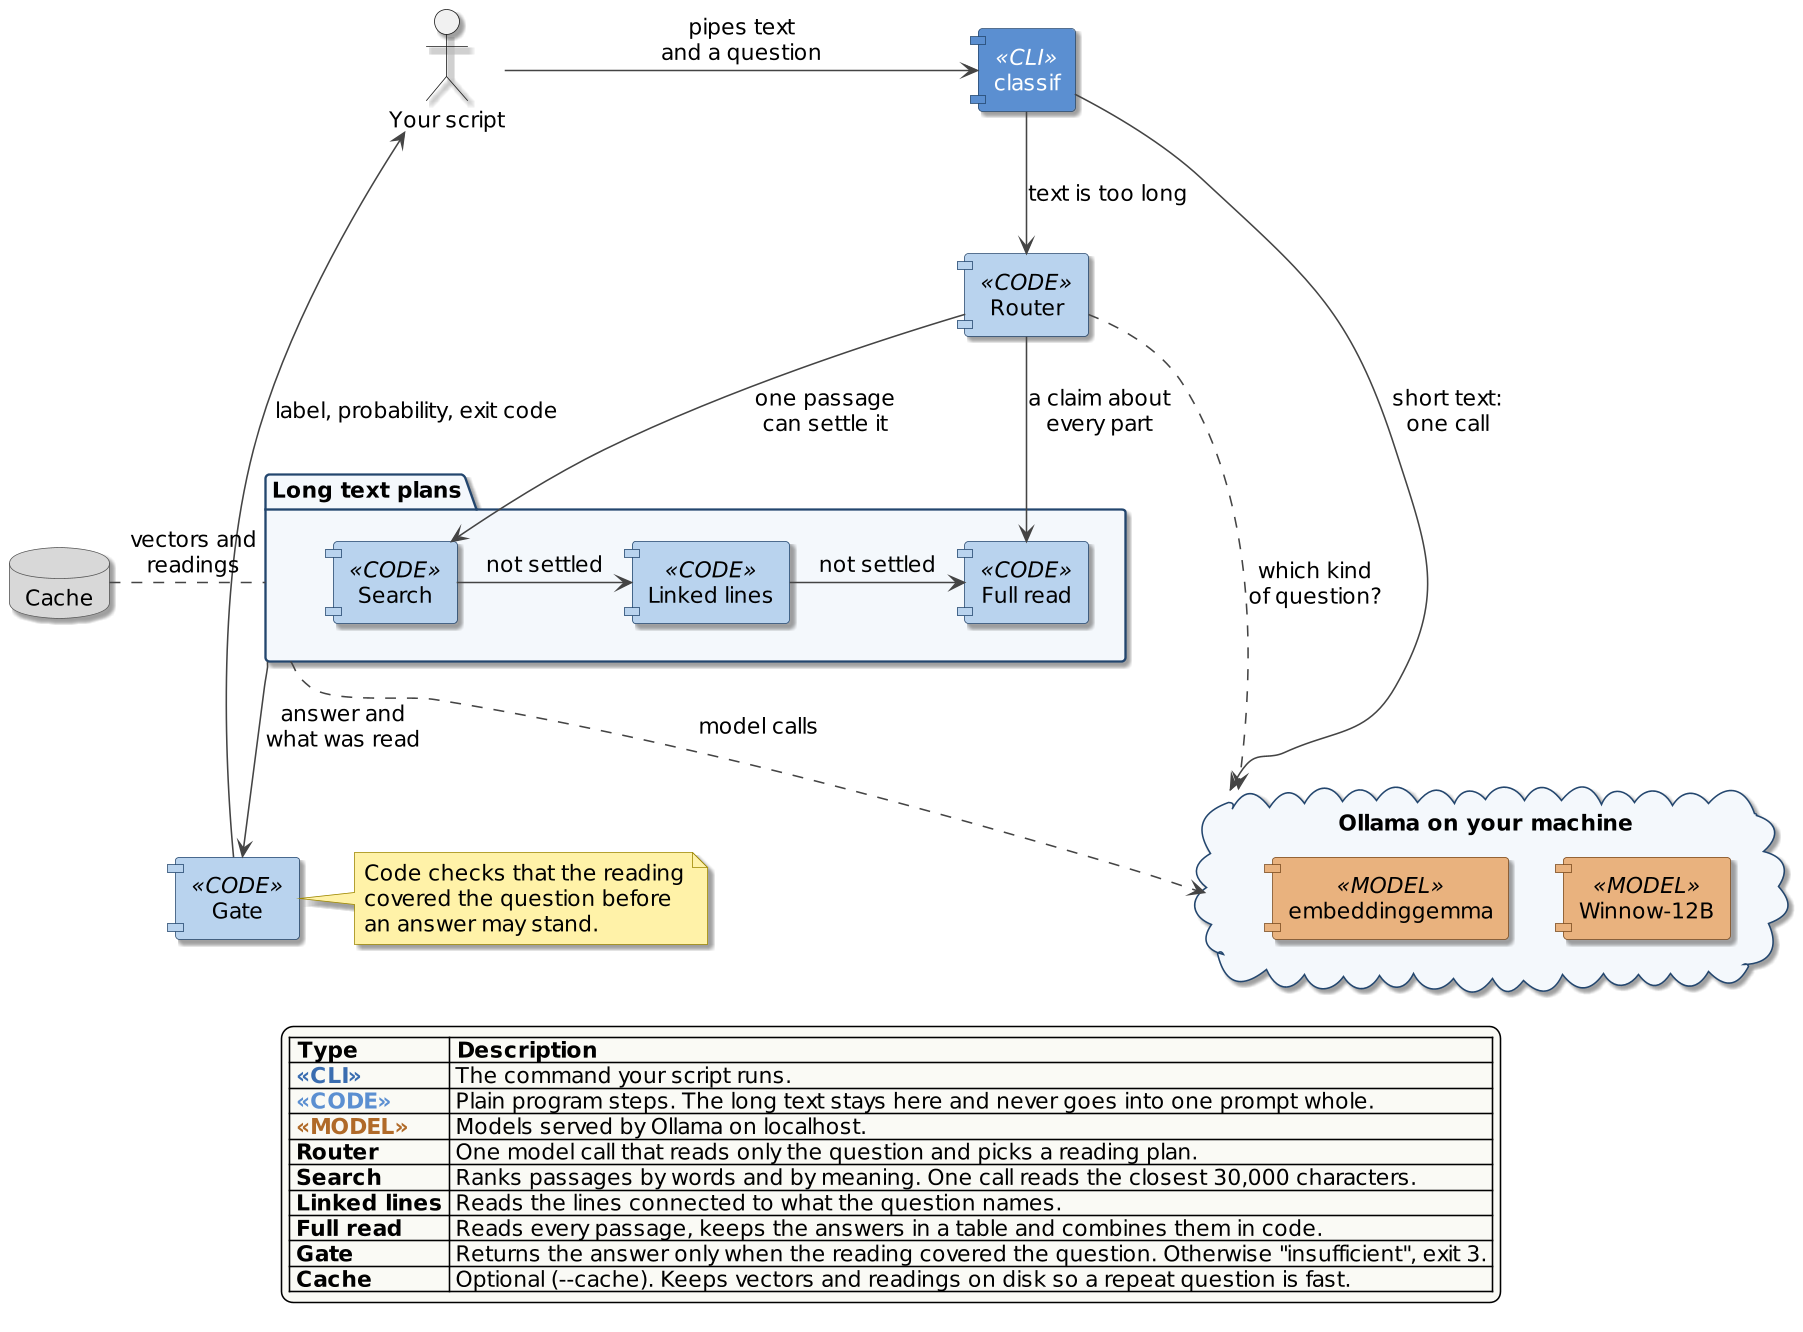
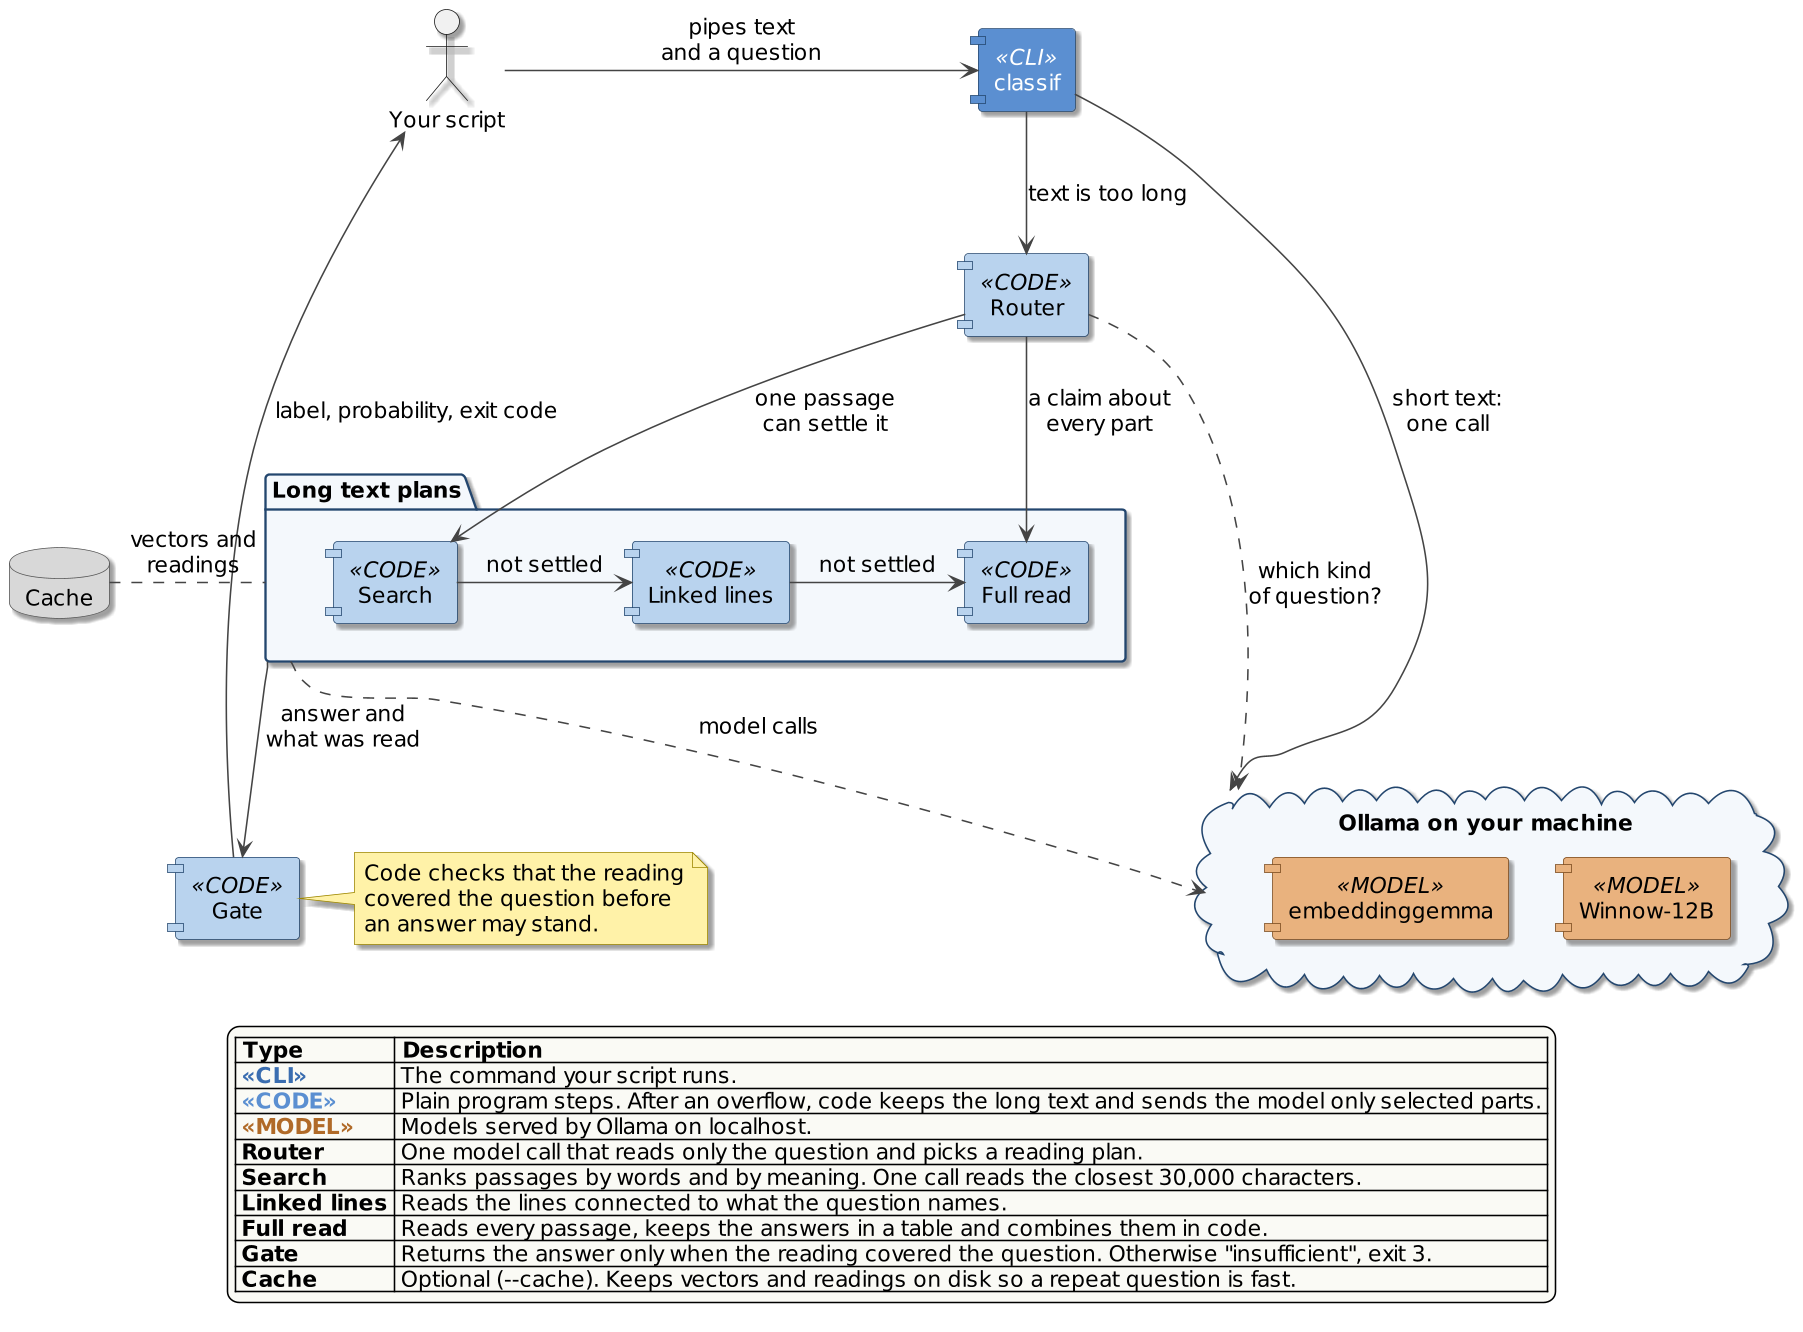
docs(blog): correct the classif figures against a real run
A -j run of the Elizabeth question shows the root call is unsure at
0.75, while the sequence diagram said "exists"; it now shows the
unsure pick. The component legend claimed the long text never
reaches the model whole, which step 2 contradicts. The 16.8 s was
measured with the model loaded and no saved index, so "cold" goes.

At the blog's column width the two diagrams were too small to
read, so each links to its full-size PNG. The novel demo now says
the answer rests on the passages found and a search can miss one.

Changed region(s): [[0.1242, 0.7695, 0.8697, 0.985]]

diff --git a/blog/_media/diagrams/panels/classif-wave-5.html b/blog/_media/diagrams/panels/classif-wave-5.html
@@ -22,6 +22,6 @@
 <div class="sign blue" style="left:950px;top:300px;width:400px;font-size:22px">code checks the reading<br>covered the question</div>
 
 <div class="emoji" style="left:1260px;top:390px;font-size:100px">🏁</div>
-<div class="emoji" style="left:1040px;top:680px;font-size:56px">⏱</div>
-<div class="label" style="left:1110px;top:690px">17 s cold, 3 s cached</div>
+<div class="emoji" style="left:1010px;top:680px;font-size:56px">⏱</div>
+<div class="label" style="left:1080px;top:690px">17 s first run, 3 s cached</div>
 </body></html>
